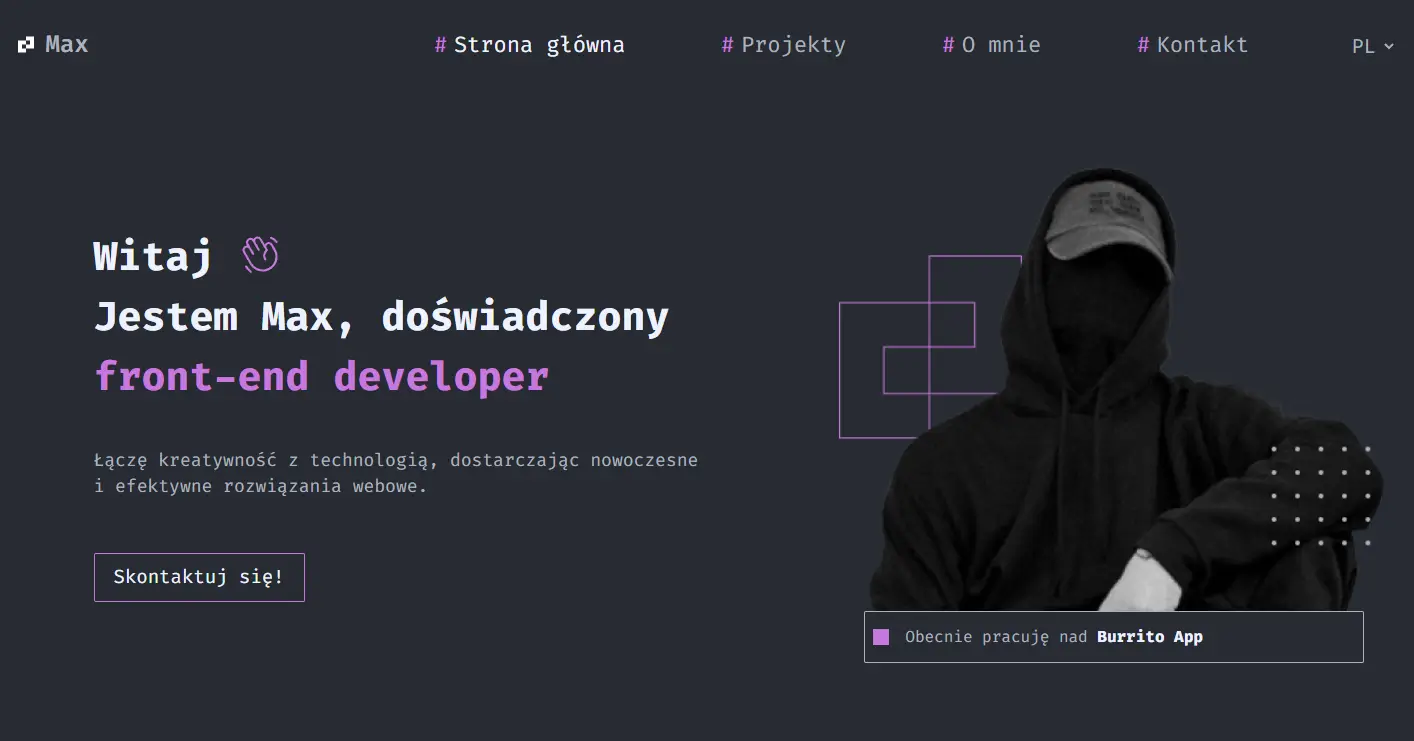
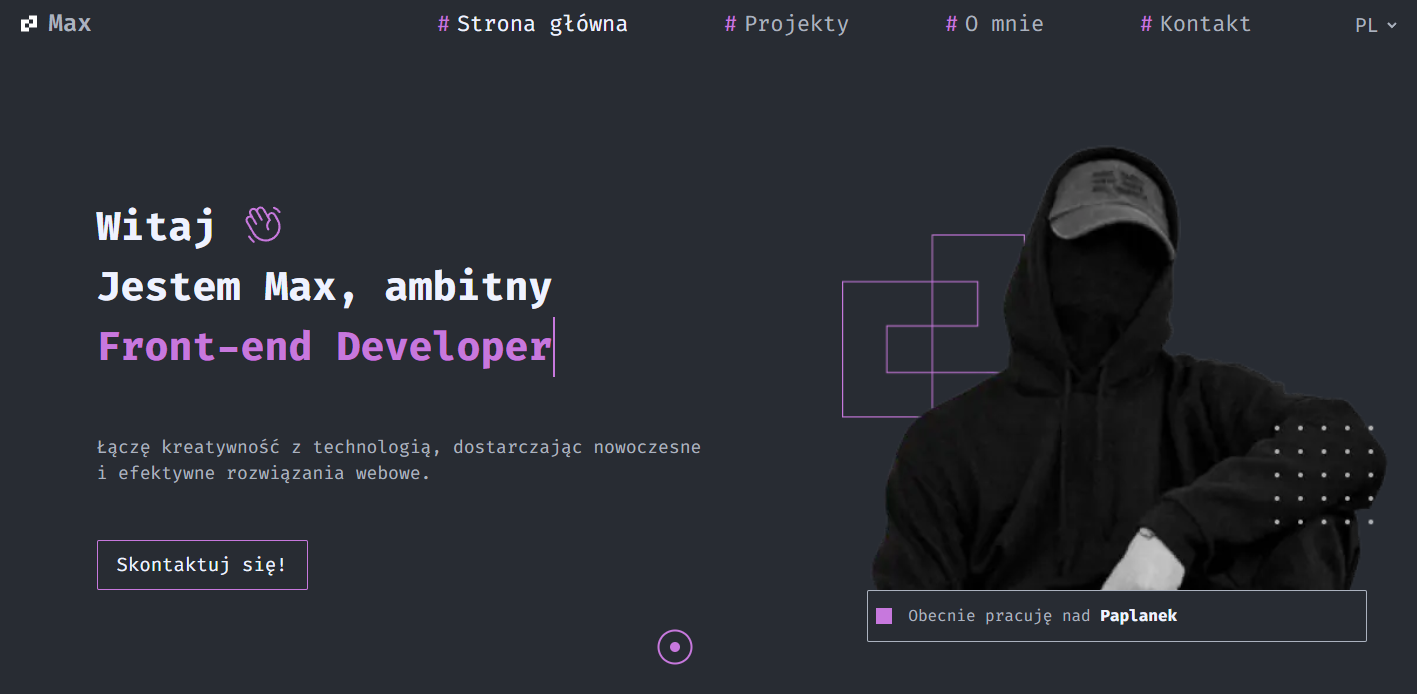
add two new projects informations

diff --git a/src/locales/projectsData.js b/src/locales/projectsData.js
@@ -1,14 +1,5 @@
 export const mainProjects = [
     {
-        name: 'Porfolio',
-        image: '/images/portfolio.webp',
-        stack: 'React Styled-component PHP',
-        info: 'projects.aboutPortfolio',
-        liveLink: '/',
-        codeLink: 'https://github.com/maxszymanski/my-page',
-        shadow: false,
-    },
-    {
         name: 'Burrito',
         image: '/images/burrito.webp',
         stack: 'React TypeScript Supabase Redux Tanstack-Query Tailwind ',
@@ -17,6 +8,26 @@ export const mainProjects = [
         codeLink: 'https://github.com/maxszymanski/burrito',
     },
     {
+        name: 'Paplanek',
+        image: '/images/paplanek.webp',
+        stack: 'React TypeScript Supabase Tanstack-Query Tailwind ',
+        info: 'projects.aboutPaplanek',
+        liveLink: 'https://paplanek.netlify.app/',
+        codeLink: 'https://github.com/maxszymanski/chat',
+    },
+    {
+        name: 'Porfolio',
+        image: '/images/portfolio.webp',
+        stack: 'React Styled-component PHP',
+        info: 'projects.aboutPortfolio',
+        liveLink: '/',
+        codeLink: 'https://github.com/maxszymanski/my-page',
+        shadow: false,
+    },
+]
+export const allProjects = [
+    ...mainProjects,
+    {
         name: 'projects.paintedSmile',
         image: '/images/painted.webp',
         stack: 'Astro JavaScript PHP Tailwind',
@@ -24,9 +35,14 @@ export const mainProjects = [
         liveLink: 'https://malowanyusmiech.pl/',
         codeLink: 'https://github.com/maxszymanski/painted-smile',
     },
-]
-export const allProjects = [
-    ...mainProjects,
+    {
+        name: 'Users List',
+        image: '/images/users.webp',
+        stack: 'React TypeScript, Redux, Tailwind',
+        info: 'projects.aboutList',
+        liveLink: 'https://maxszymanski-users-list.netlify.app/',
+        codeLink: 'https://github.com/maxszymanski/users-list',
+    },
     {
         name: 'Eltom',
         image: '/images/eltom.webp',

diff --git a/src/ui/SkillSection.jsx b/src/ui/SkillSection.jsx
@@ -103,7 +103,10 @@ function SkillSection() {
                     />
                 </SkillColumn>
                 <SkillColumn>
-                    <SkillCard title="skills.frameworks" info="React Astro" />
+                    <SkillCard
+                        title="skills.frameworks"
+                        info="React Next.js Astro"
+                    />
                     <SkillCard
                         title="skills.tools"
                         info="VSCode Figma Git SCSS"

diff --git a/src/features/mainPage/HeaderImage.jsx b/src/features/mainPage/HeaderImage.jsx
@@ -114,9 +114,9 @@ function HeaderImage() {
                     <TitleLink
                         target="_blank"
                         rel="noopener"
-                        to="https://tastyburrito.netlify.app/"
+                        to="https://paplanek.netlify.app/"
                     >
-                        Burrito App
+                        Paplanek
                     </TitleLink>{' '}
                 </TitleInfo>
             </WorkingBox>
